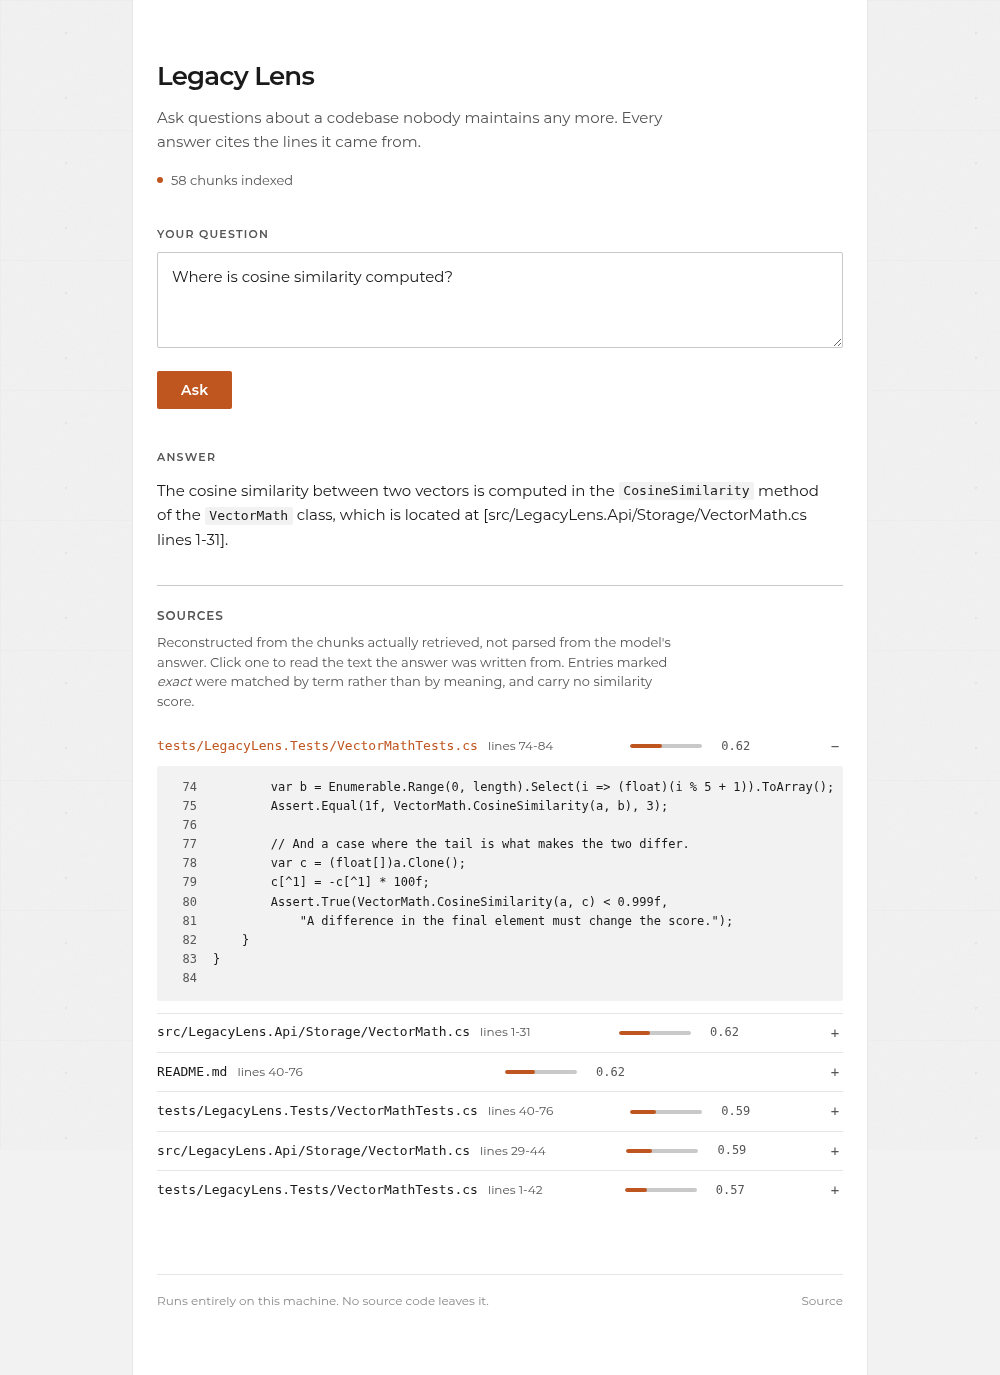
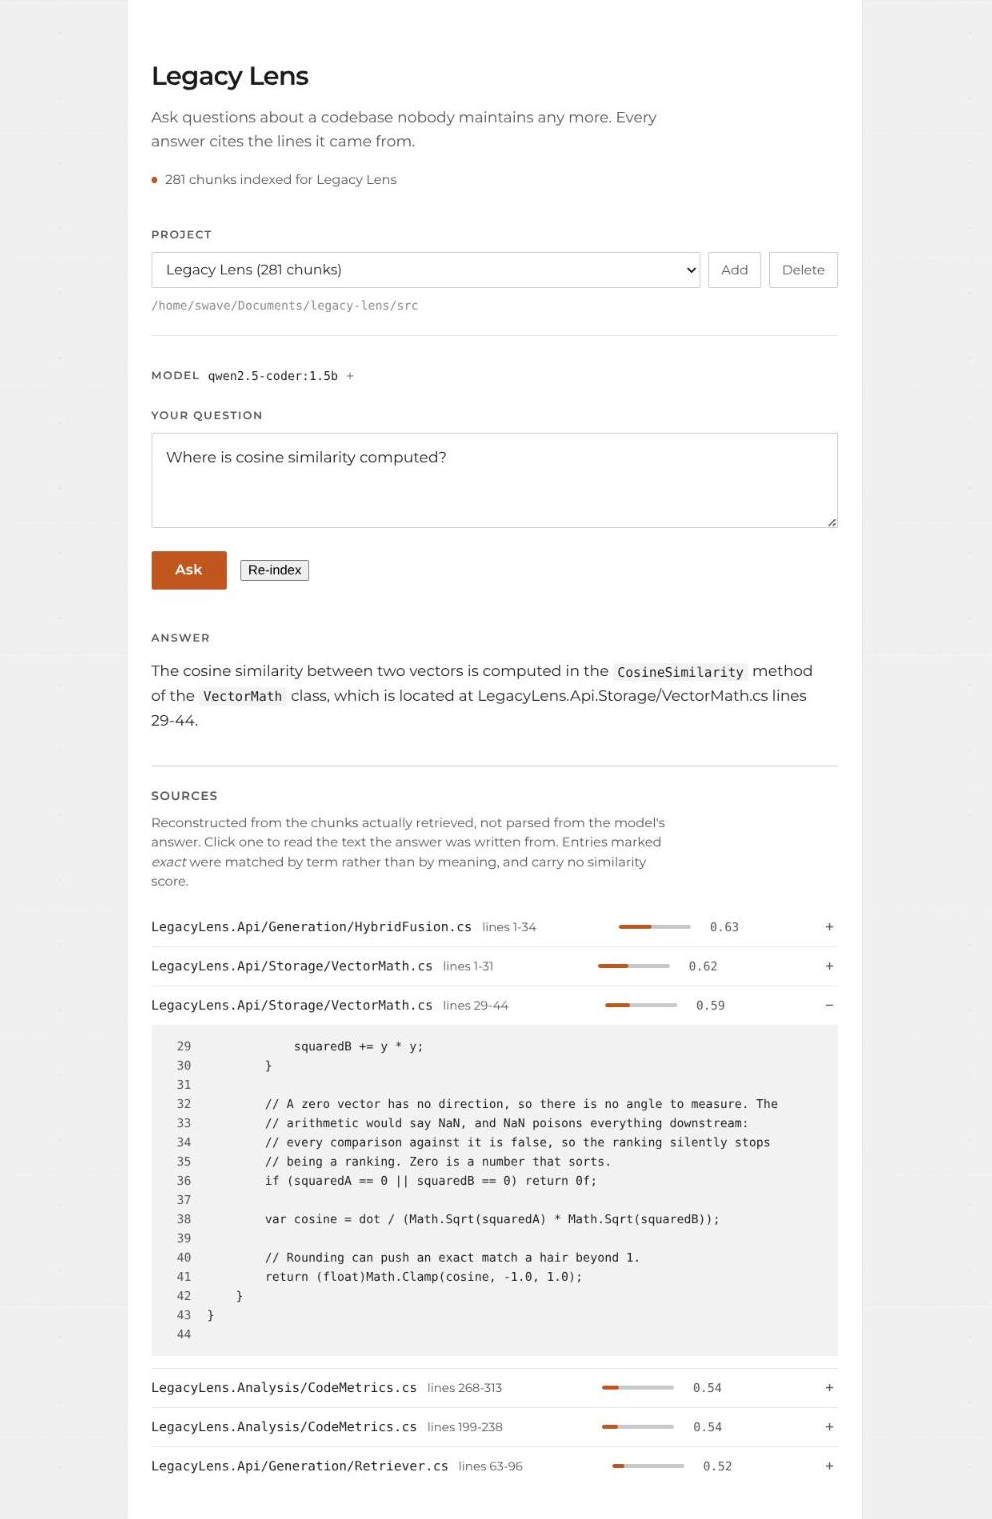
Refresh the screenshots, and fix what taking them exposed
The one in the README was eighteen commits old and showed the interface as it
was before M7: no project picker, no model, no indexing panel, no risk
ranking. Two more are added, in the sections that describe what they show:
indexing in progress, and the ranking that needs no index at all.

Taking them found three things worth fixing.

The header and the indexing panel each reported a chunk count, one from the
last time the list loaded and one from the run in flight, so they disagreed by
twenty on screen. The header now stays quiet while a run is going and lets the
panel speak, which is the one that is current.

A run that finished before anyone arrived announced itself anyway, on every
visit, repeating a number the picker already showed. It is confirmed now only
when somebody watched it happen. A failed run still speaks either way:
arriving at a project whose indexing died is exactly when you need to know.

And in the ranking, a bar and a number sat side by side measuring different
things. Program.cs shows a cyclomatic complexity of 0 against a bar past the
halfway mark, because it ranks on churn rather than on shape. That reads as a
bug until the note says the bar is the rank and the number is one ingredient
of it.

The screenshots are real: a local model answering over this repository's own
source, on the qwen2.5-coder:1.5b the README lists as the small option.

diff --git a/web/src/app/components/indexing/indexing.ts b/web/src/app/components/indexing/indexing.ts
@@ -25,8 +25,27 @@ export class Indexing {
   /** Raised when a run finishes, so the page can refresh its chunk counts. */
   readonly finished = output<IngestionJob>();
 
+  /**
+   * Whether a run is going, so the page can stop showing a chunk count.
+   *
+   * The count on the picker comes from the last time the list was loaded, and
+   * the panel below reports what this run has written. While both are on
+   * screen they disagree, which is two numbers for one fact.
+   */
+  readonly busy = output<boolean>();
+
   readonly job = signal<IngestionJob | null>(null);
   readonly failure = signal<string | null>(null);
+
+  /**
+   * Whether a finished run is worth reporting.
+   *
+   * A run that completed three days ago is not news, and its summary repeats
+   * the chunk count already on the picker. A run that finished while somebody
+   * was watching is worth confirming. Failures are shown either way: arriving
+   * at a project whose indexing died is exactly when you need to be told.
+   */
+  readonly announce = signal(false);
 
   private timer: ReturnType<typeof setTimeout> | null = null;
   private watching: string | null = null;
@@ -50,11 +69,28 @@ export class Indexing {
 
       this.watching = workspace;
       this.wasRunning = false;
+      this.announce.set(false);
       this.job.set(null);
       this.failure.set(null);
       this.poll();
     });
   }
+
+  /**
+   * Whether there is anything to say at all.
+   *
+   * Without this the panel renders as an empty band for a project indexed
+   * days ago: a box with a border and nothing in it.
+   */
+  readonly worthShowing = computed(() => {
+    const job = this.job();
+    if (!job) return false;
+
+    return job.running
+      || job.state === 'failed'
+      || job.state === 'cancelled'
+      || (this.announce() && job.chunksIndexed > 0);
+  });
 
   /** Asks the API to stop. What was embedded already stays indexed. */
   cancel(): void {
@@ -79,6 +115,8 @@ export class Indexing {
         this.job.set(job);
         this.failure.set(null);
 
+        this.busy.emit(job?.running === true);
+
         if (job?.running) {
           this.wasRunning = true;
           // Two seconds: fast enough that the file being worked on looks live,
@@ -89,6 +127,7 @@ export class Indexing {
 
         if (this.wasRunning && job) {
           this.wasRunning = false;
+          this.announce.set(true);
           this.finished.emit(job);
         }
       },

diff --git a/web/src/app/components/indexing/indexing.spec.ts b/web/src/app/components/indexing/indexing.spec.ts
@@ -116,6 +116,36 @@ describe('Indexing', () => {
     expect(finished).toEqual([]);
   });
 
+  it('does not repeat a run that finished before anyone arrived', () => {
+    // Its summary says what the picker already says, and a run from three days
+    // ago is not news.
+    const fixture = build();
+    answer({ ...running, state: 'done', running: false, filesDone: 40 });
+    fixture.detectChanges();
+
+    expect((fixture.nativeElement as HTMLElement).querySelector('.indexing')).toBeNull();
+  });
+
+  it('confirms a run that finished while somebody was watching', () => {
+    const fixture = build();
+    answer(running);
+    vi.advanceTimersByTime(2000);
+    answer({ ...running, state: 'done', running: false, filesDone: 40 });
+    fixture.detectChanges();
+
+    expect((fixture.nativeElement as HTMLElement).textContent).toContain('Indexed');
+  });
+
+  it('reports a run that died before anyone arrived', () => {
+    // The opposite call from a finished one: arriving at a project whose
+    // indexing failed is exactly when you need to be told.
+    const fixture = build();
+    answer({ ...running, state: 'failed', running: false, error: 'Ollama is not running.' });
+    fixture.detectChanges();
+
+    expect((fixture.nativeElement as HTMLElement).textContent).toContain('Indexing failed');
+  });
+
   it('switches to the project it is given', () => {
     const fixture = build();
     answer(running);

diff --git a/web/src/app/app.spec.ts b/web/src/app/app.spec.ts
@@ -108,6 +108,21 @@ describe('App', () => {
     expect(status).toContain('Billing');
   });
 
+  it('gives one number for how much is indexed, not two', () => {
+    // The header count is from the last time the list loaded; the panel below
+    // reports what the current run has written since. On screen together they
+    // disagree, so while a run is going the panel is the one that speaks.
+    const fixture = build();
+    const element = fixture.nativeElement as HTMLElement;
+
+    expect(element.querySelector('.status')?.textContent).toContain('58');
+
+    fixture.componentInstance.onBusy(true);
+    fixture.detectChanges();
+
+    expect(element.querySelector('.status')).toBeNull();
+  });
+
   it('selects a project on its own, so the first visit has something to ask about', () => {
     expect(build().componentInstance.store.currentId()).toBe('w-billing');
   });

diff --git a/web/src/app/app.html b/web/src/app/app.html
@@ -12,6 +12,7 @@
         {{ failure }}
       </p>
     } @else if (store.current(); as current) {
+      @if (!indexing()) {
       <p class="status">
         <span class="dot" [class.empty]="current.chunks === 0"></span>
         @if (current.chunks === 0) {
@@ -20,13 +21,18 @@
           {{ current.chunks }} chunks indexed for {{ current.name }}
         }
       </p>
+      }
     }
   </header>
 
   <lens-projects (added)="onAdded($event)" />
 
   @if (store.current(); as current) {
-    <lens-indexing [workspace]="current.id" (finished)="onIndexed($event)" />
+    <lens-indexing
+      [workspace]="current.id"
+      (finished)="onIndexed($event)"
+      (busy)="onBusy($event)"
+    />
 
     <lens-model-choice (chosen)="onModel($event)" />
 

diff --git a/web/src/app/components/overview/overview.html b/web/src/app/components/overview/overview.html
@@ -15,7 +15,10 @@
     <p class="note">
       Files that are complicated, change often and have no test, ranked
       {{ risk.ranked }} deep. Read from the code and from git history: no model
-      and no index, which is why it is here before indexing has finished.
+      and no index, which is why it is here before indexing has finished. The
+      bar is the rank; the number beside it is the file's cyclomatic
+      complexity, which is one of the things that rank is made of and not the
+      same as it.
       @if (risk.generatedFilesExcluded) {
         {{ risk.generatedFilesExcluded }}
         {{ risk.generatedFilesExcluded === 1 ? 'generated file was' : 'generated files were' }}

diff --git a/web/src/app/components/indexing/indexing.html b/web/src/app/components/indexing/indexing.html
@@ -1,4 +1,4 @@
-@if (job(); as run) {
+@if (worthShowing() && job(); as run) {
   <section class="indexing" [class.failed]="run.state === 'failed'">
     @if (run.state === 'cloning') {
       <p class="line">
@@ -50,7 +50,7 @@
         Stopped after {{ run.filesDone }} of {{ run.filesTotal }} files.
         What was indexed is kept, and starting again picks up from there.
       </p>
-    } @else if (run.chunksIndexed > 0) {
+    } @else if (announce() && run.chunksIndexed > 0) {
       <p class="line">
         <span class="dot done" aria-hidden="true"></span>
         Indexed {{ run.chunksIndexed }} chunks from {{ run.filesDone }} files.

diff --git a/web/src/app/components/overview/overview.spec.ts b/web/src/app/components/overview/overview.spec.ts
@@ -95,6 +95,14 @@ describe('Overview', () => {
     expect(app.width(rules)).toBe(50);
   });
 
+  it('says the bar and the number are not the same measure', () => {
+    // A file with a cyclomatic complexity of 0 can still rank high, on churn
+    // alone. Side by side with no explanation, that reads as a bug.
+    const element = build().nativeElement as HTMLElement;
+
+    expect(element.querySelector('.note')?.textContent).toContain('not the same as it');
+  });
+
   it('marks an untested file, because that is what changes what you do next', () => {
     const element = build().nativeElement as HTMLElement;
 

diff --git a/web/src/app/app.ts b/web/src/app/app.ts
@@ -83,6 +83,19 @@ export class App implements OnInit {
     this.store.refresh();
   }
 
+  /**
+   * While a run is going the header says nothing about how much is indexed.
+   *
+   * The stored count is from the last time the list loaded and the panel below
+   * reports what the run has written since. Showing both is two numbers for
+   * one fact, and the panel is the one that is current.
+   */
+  readonly indexing = signal(false);
+
+  onBusy(running: boolean): void {
+    this.indexing.set(running);
+  }
+
   onModel(choice: ModelChoice): void {
     this.model.set(choice);
   }

diff --git a/README.md b/README.md
@@ -6,7 +6,7 @@ Point it at a repository. It reads the source, indexes it, and answers questions
 in plain language with a citation for every claim: file and line numbers you can
 open and check.
 
-![Legacy Lens answering a question about its own source, with citations](docs/screenshot.png)
+![Legacy Lens answering a question about its own source: the project it is reading, the model answering, and every claim traced to the lines it came from, one of them opened](docs/screenshot.png)
 
 *Answering a question about its own source. Every claim carries the file and lines
 it came from, with the retrieval score beside it.*
@@ -191,6 +191,12 @@ reused from a service or a desktop client. Nothing about the file layout says
 so; nothing about the build complains. It surfaces the day someone tries.
 
 ### Where the code will hurt
+
+![The risk ranking in the browser: files ordered by how much trouble they are likely to cause, each marked as tested or not](docs/overview.png)
+
+This half needs no model and no index. It reads the directory and git history
+and answers in milliseconds, which is why the interface shows it while
+embedding is still running.
 
 ```bash
 curl -X POST localhost:8080/api/risk \
@@ -512,6 +518,8 @@ repositories take a `token`, which is used for that fetch and then removed from
 the clone's git config. Only http and https are accepted.
 
 ### Indexing without waiting for it
+
+![Indexing in progress: files done, chunks so far, the file being read and an estimate, with a stop button](docs/indexing.png)
 
 `POST /api/ingest` blocks until the index is built, which is what a script
 wants. A person usually does not: embedding runs at roughly two chunks a second
